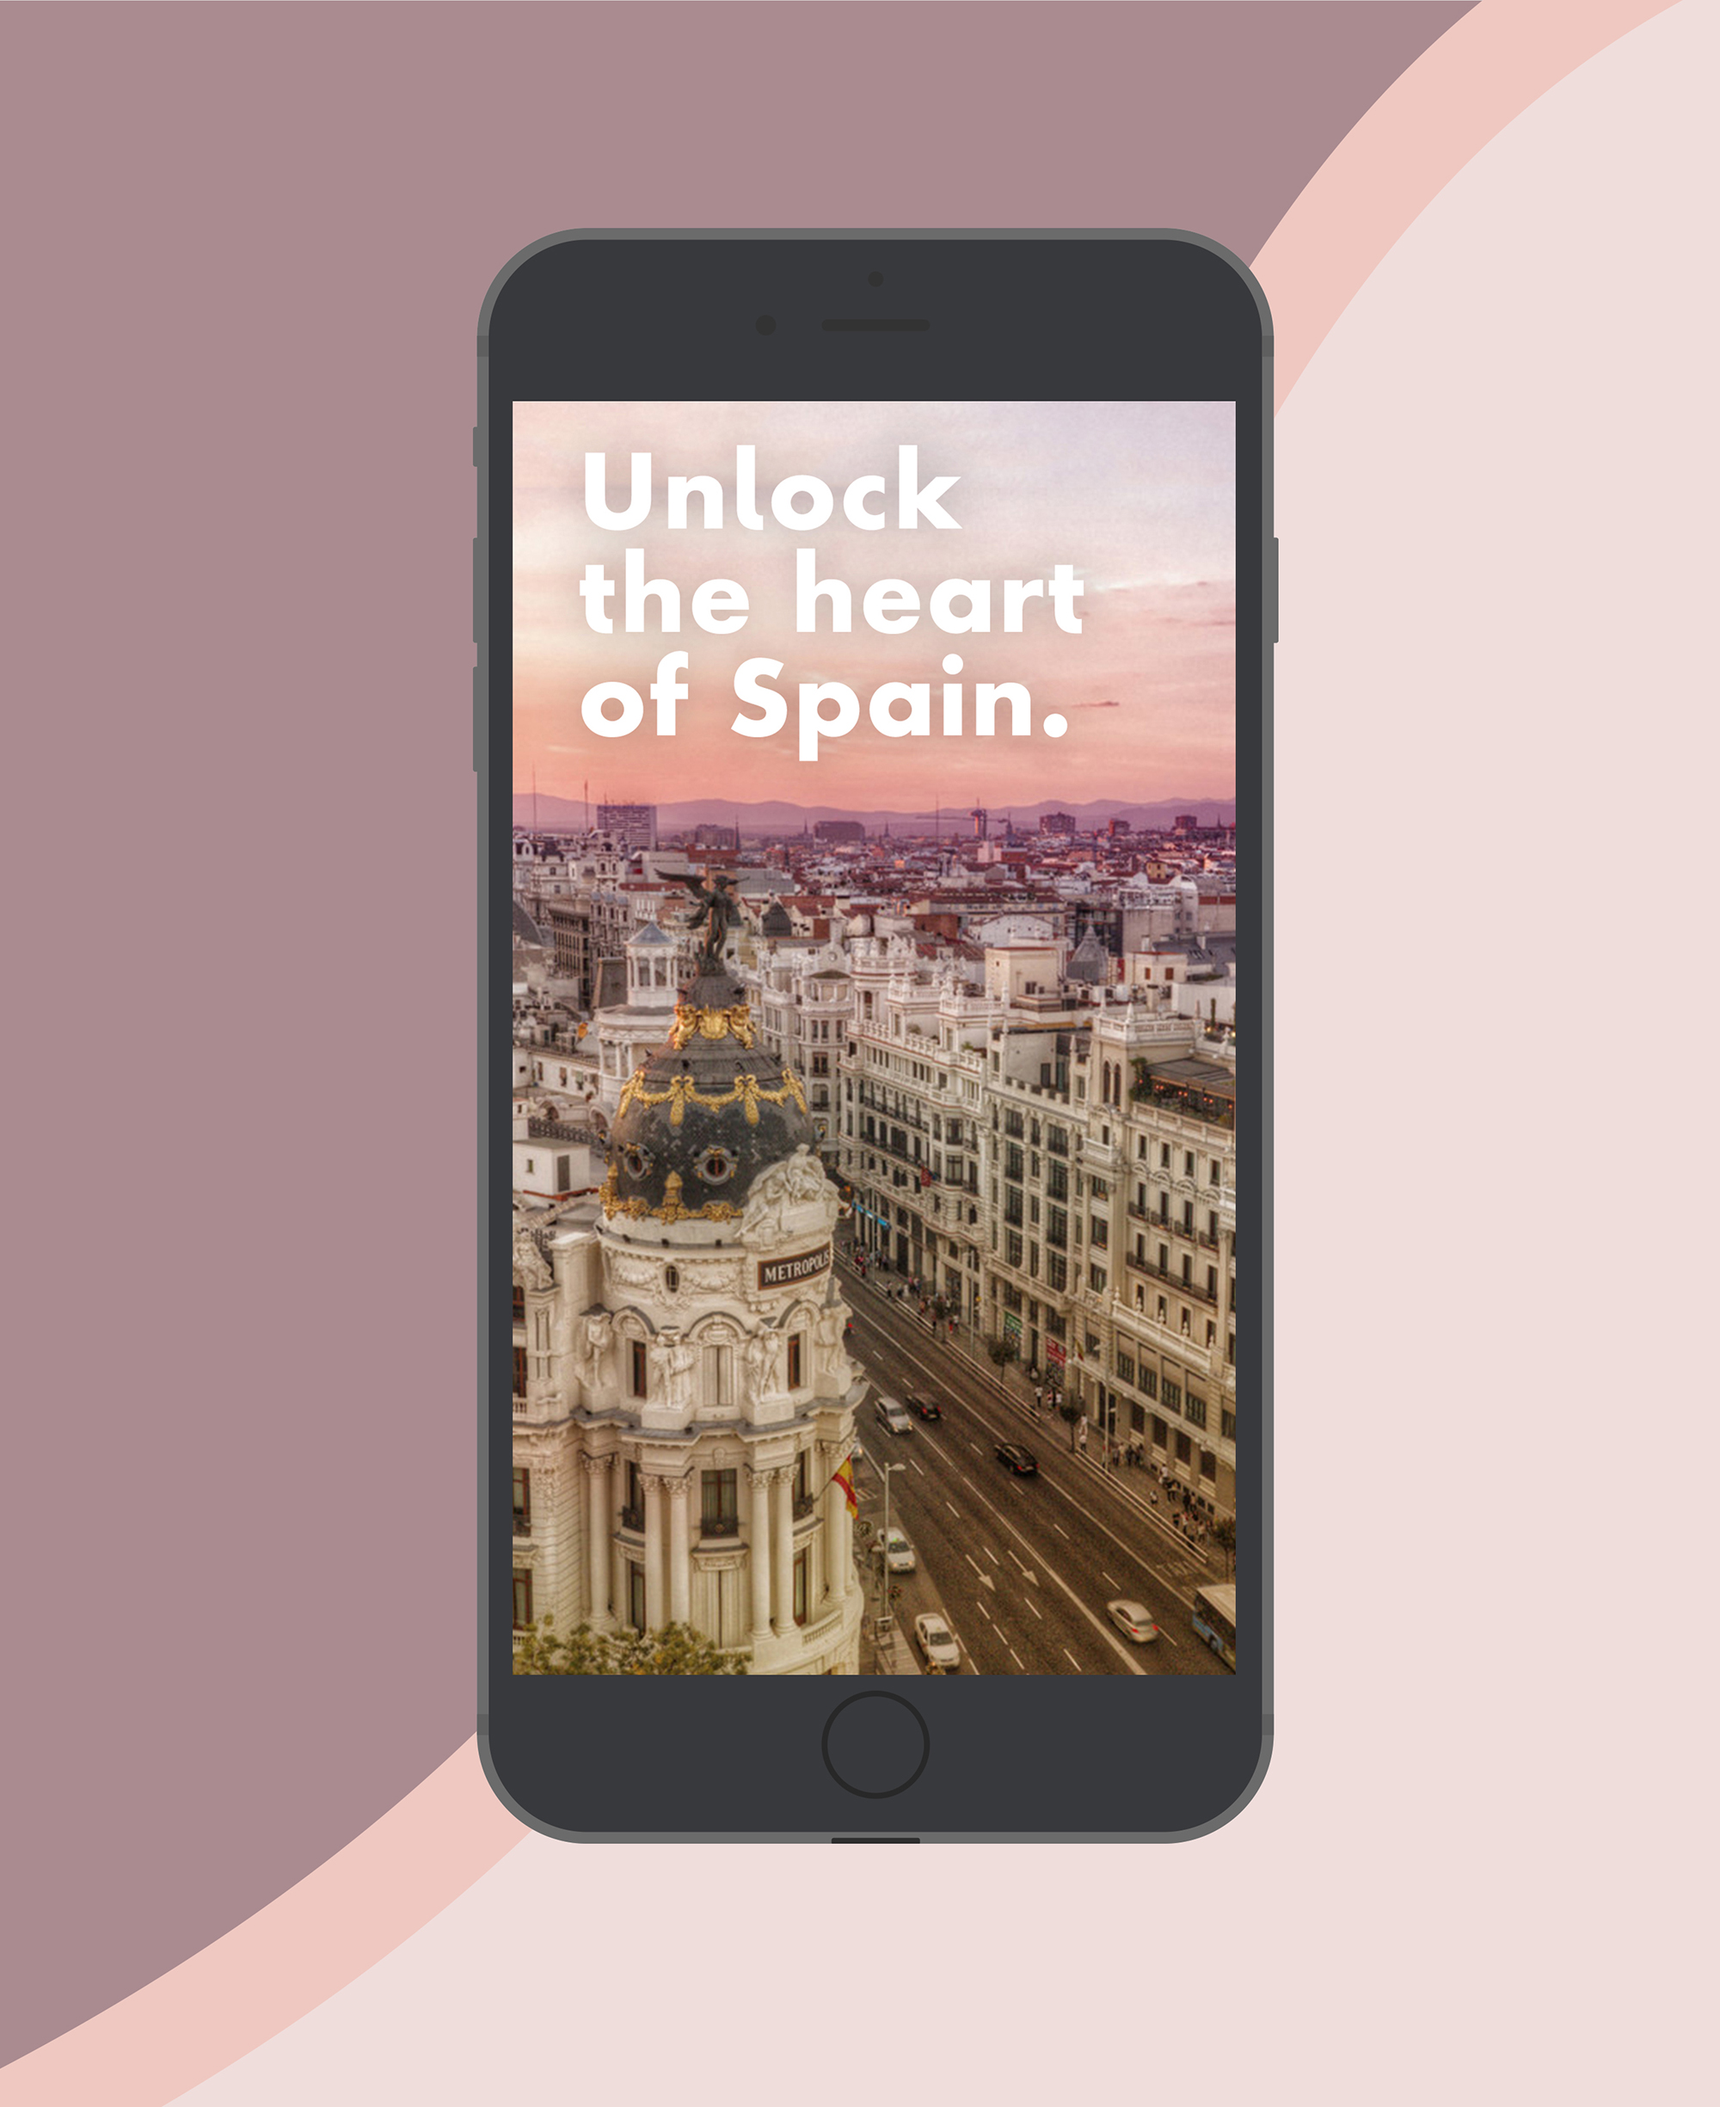
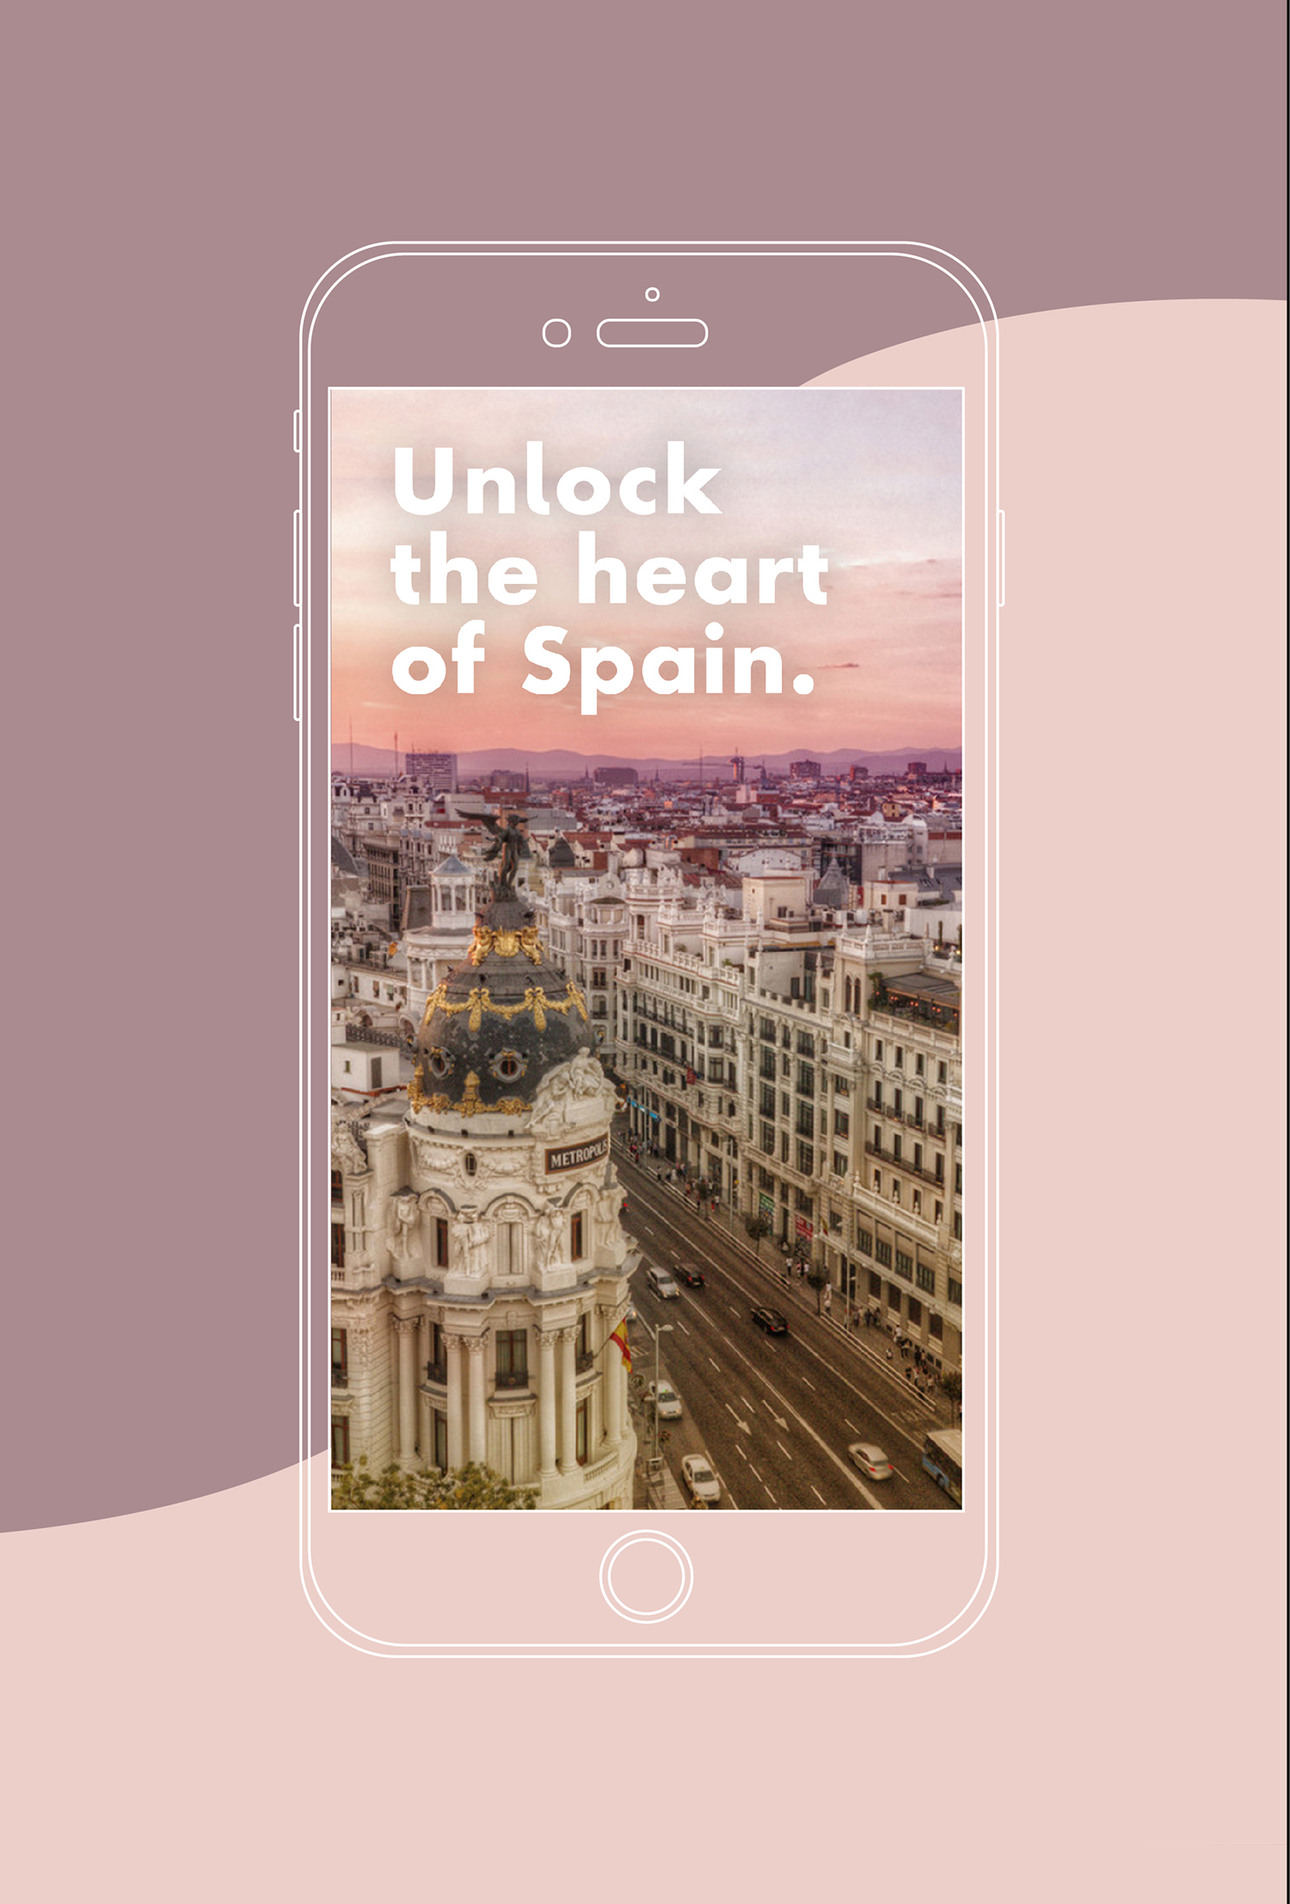
Heart of Spain

diff --git a/spaintourism.html b/spaintourism.html
@@ -175,7 +175,7 @@
             <!--/Hero Section -->
         	
             
-            <div id="hero-image" class="hidden" style="background-image:url(images/spaintourism/trafalgar-spain-hero.jpg)">
+            <div id="hero-image" class="hidden" style="background-image:url(images/spaintourism/HeartofSpain-hero-01.jpg)">
             	<div id="image-border-left"></div>
                 <div id="image-border-right"></div>
             </div>
